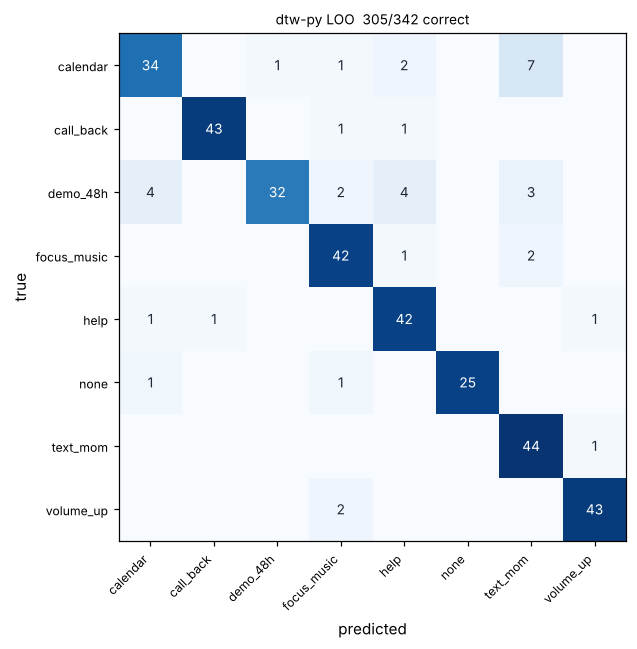
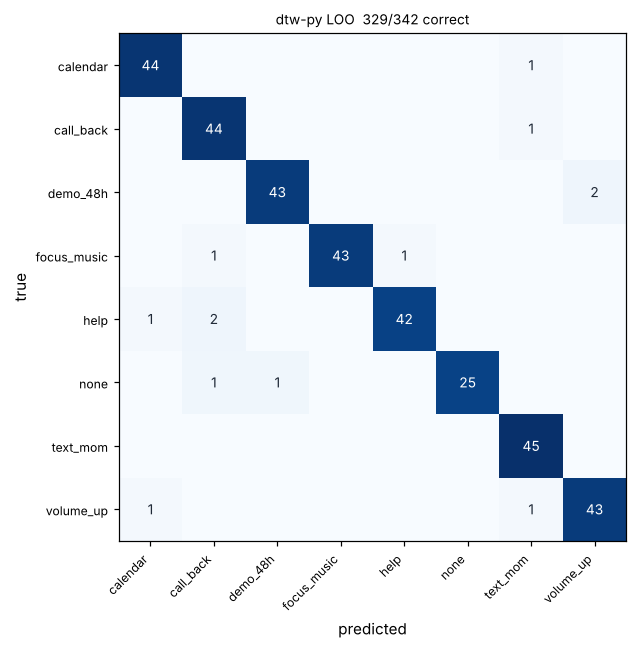
Track G: dtw-py LOO at the JS defaults, synthetic dtw-py rerun, RESULTS.md (real data first; generated with p2-f-dtw-real d27c07f's ml/results/dtw-knn in place)
Claude-Session: https://claude.ai/code/session_01BNSL6qk1bv6gor7EbPhNKm

diff --git a/01-silent-speech/ml/silent/report.py b/01-silent-speech/ml/silent/report.py
@@ -381,7 +381,7 @@ def _luck_table(rows: Sequence[dict[str, Any]], out_path: Path) -> list[str]:
         )
         img = m["_path"].parent / "luck_loso.png"
         if img.exists():
-            imgs += [f"![{m['model']} luck test]({os.path.relpath(img, out_path.parent).replace(os.sep, '/')})", ""]
+            imgs += [f"![{_model(m)} luck test]({os.path.relpath(img, out_path.parent).replace(os.sep, '/')})", ""]
     return lines + [""] + imgs
 
 
@@ -427,7 +427,7 @@ def _real_section(group: Sequence[dict[str, Any]], out_path: Path, ids: Sequence
     lucky = [m for m in by["loso"] if "permutation" in m["params"]]
     if lucky:
         lines += ["#### Luck test", "", *_luck_table(lucky, out_path)]
-        skipped = [m["model"] for m in by["loso"] if "permutation" not in m["params"] and m["model"] != "dtw-knn"]  # dtw-knn = dtw-py
+        skipped = [_model(m) for m in by["loso"] if "permutation" not in m["params"] and m["model"] != "dtw-knn"]  # dtw-knn = dtw-py
         if skipped:
             lines += [f"Not run for {', '.join(skipped)} (each shuffle means retraining every fold; the cheap exact shortcut exists only for",
                       "dtw-py and minirocket).", ""]

diff --git a/01-silent-speech/ml/tests/test_dtw.py b/01-silent-speech/ml/tests/test_dtw.py
@@ -146,11 +146,9 @@ def test_matches_js_dtw_knn_clip_by_clip(synthetic):
     import json
     from pathlib import Path
 
-    from silent.bench import run_fold
+    from silent.bench import default_opts, run_fold
     from silent.cv import splits
     from silent.preprocess import preprocess_clip
-
-    from silent.bench import default_opts
 
     snap = json.loads((Path(__file__).parent / "data" / "js_dtw_knn_loso.json").read_text())
     assert snap["opts"] == {}  # JS defaults = dtw-py defaults
@@ -174,11 +172,9 @@ def test_matches_js_dtw_knn_on_real_data_with_bud_mirroring(real_smoke):
     import json
     from pathlib import Path
 
-    from silent.bench import run_fold
+    from silent.bench import default_opts, run_fold
     from silent.cv import splits
     from silent.preprocess import preprocess_clip
-
-    from silent.bench import default_opts
 
     js = json.loads((Path(__file__).parent / "data" / "js_dtw_knn_real_smoke_loso.json").read_text())
     assert js["opts"] == {}  # JS defaults = dtw-py defaults (L 96, band 0.05, k 3, clip norm, threshold 0.85, budNorm mirror)

diff --git a/01-silent-speech/ml/RESULTS.md b/01-silent-speech/ml/RESULTS.md
@@ -31,22 +31,31 @@ he mouthed "stay still"); the raw files are never edited.
 
 8 classes (`calendar`, `call_back`, `demo_48h`, `focus_music`, `help`, `none`, `text_mom`, `volume_up`), so chance is about 12.5%.
 
-Settings (LOSO runs): **dtw-py**: L 64, 6 channels, high pass 1.0 Hz, global norm, budNorm mirror; band 0.1, k 1; **minirocket**: L 64, 6 channels, high pass 1.0 Hz, global norm, budNorm mirror; 10000 kernels, seed 0; **cnn**: L 64, 6 channels, high pass 1.0 Hz, global norm, budNorm mirror; max 300 epochs, seed 0.
+Settings (LOSO runs): **dtw-knn (JS)**: L 96, 6 channels, high pass 1 Hz, clip norm, budNorm mirror; band 0.05, k 3; **dtw-py**: L 96, 6 channels, high pass 1.0 Hz, clip norm, budNorm mirror; band 0.05, k 3; **dtw-py (phase1-settings)**: L 64, 6 channels, high pass 1.0 Hz, global norm, budNorm mirror; band 0.1, k 1; **minirocket**: L 64, 6 channels, high pass 1.0 Hz, global norm, budNorm mirror; 10000 kernels, seed 0; **minirocket (L96-clip)**: L 96, 6 channels, high pass 1.0 Hz, clip norm, budNorm mirror; 10000 kernels, seed 0; **cnn**: L 64, 6 channels, high pass 1.0 Hz, global norm, budNorm mirror; max 300 epochs, seed 0; **cnn (L96-clip)**: L 96, 6 channels, high pass 1.0 Hz, clip norm, budNorm mirror; max 300 epochs, seed 0.
 
 #### Leave one session out (the headline)
 
 Train on the other sessions, test on a whole new one: the closest thing to real use. Each test column is one fold.
 
-| Model | Accuracy | Macro F1 | test s1 (right bud) | test s2 (left bud) | test s3 (left bud) | Seeds 0 to 4: mean (range) | None false accept | Infer ms/clip |
-|---|---:|---:|---:|---:|---:|---:|---:|---:|
-| dtw-py | 81.9% (280/342) | 0.820 | 64.8% (68/105) | 94.0% (110/117) | 85.0% (102/120) | no randomness | 3.7% (1/27) | 51.4 |
-| minirocket | 76.3% (261/342) | 0.776 | 49.5% (52/105) | 92.3% (108/117) | 84.2% (101/120) | 77.8% (76.3% to 79.8%) | 0.0% (0/27) | 3.9 |
-| cnn | 76.6% (262/342) | 0.780 | 51.4% (54/105) | 91.5% (107/117) | 84.2% (101/120) | 77.3% (74.9% to 81.3%) | 3.7% (1/27) | 2.1 |
+| Model | Accuracy | Macro F1 | test s1 (right bud) | test s2 (left bud) | test s3 (left bud) | Seeds 0 to 4: mean (range) | Settings | None false accept | Infer ms/clip |
+|---|---:|---:|---:|---:|---:|---:|---|---:|---:|
+| dtw-knn (JS) | 94.2% (322/342) | 0.939 | ? | ? | ? | no randomness | picked on these folds (sweep) | 0.0% (0/27) | 12.9 |
+| dtw-py | 94.2% (322/342) | 0.939 | 83.8% (88/105) | 97.4% (114/117) | 100.0% (120/120) | no randomness | picked on these folds (sweep) | 0.0% (0/27) | 93.9 |
+| dtw-py (phase1-settings) | 81.9% (280/342) | 0.820 | 64.8% (68/105) | 94.0% (110/117) | 85.0% (102/120) | no randomness | fixed before this data | 3.7% (1/27) | 52.3 |
+| minirocket | 76.3% (261/342) | 0.776 | 49.5% (52/105) | 92.3% (108/117) | 84.2% (101/120) | 77.8% (76.3% to 79.8%) | fixed before this data | 0.0% (0/27) | 3.9 |
+| minirocket (L96-clip) | 84.8% (290/342) | 0.854 | 64.8% (68/105) | 95.7% (112/117) | 91.7% (110/120) | 85.4% (83.9% to 88.3%) | preprocessing from the DTW sweep | 3.7% (1/27) | 6.0 |
+| cnn | 76.6% (262/342) | 0.780 | 51.4% (54/105) | 91.5% (107/117) | 84.2% (101/120) | 77.3% (74.9% to 81.3%) | fixed before this data | 3.7% (1/27) | 2.1 |
+| cnn (L96-clip) | 79.2% (271/342) | 0.798 | 54.3% (57/105) | 92.3% (108/117) | 88.3% (106/120) | 80.8% (78.9% to 83.6%) | preprocessing from the DTW sweep | 3.7% (1/27) | 2.4 |
+
+**Settings picked on these folds:** the DTW defaults (L 96, band 0.05, k 3, clip norm, threshold 0.85) were chosen
+by a LOSO sweep of 768 configurations on these same 3 sessions (Track F, `web/src/ml/preprocess.ts`), so those
+rows are a little optimistic (the best of many tries). Rows marked *fixed before this data* had no such tuning.
+The honest check is a session that played no part in choosing anything (the s3 hold out replay of the public model).
 
 Accuracy is the first seed (0), fixed before the run. MiniRocket and the CNN are random (kernels, weights), so the
 seed column shows the same LOSO with other seeds: differences of a few points between models are within that spread.
 
-- Highest LOSO on `ss-dataset-s1-20261031-1621.json`, `ss-dataset-s2-20261031-1637.json`, `ss-dataset-s3-20261031-1654.json`: **dtw-py**, 280/342 correct (81.9%).
+- Highest LOSO on `ss-dataset-s1-20261031-1621.json`, `ss-dataset-s2-20261031-1637.json`, `ss-dataset-s3-20261031-1654.json`: **dtw-knn (JS)** and **dtw-py** (tie), 322/342 correct (94.2%).
 
 #### Cross bud
 
@@ -56,9 +65,12 @@ motion mirrored into the left bud frame; the default everywhere, so this is also
 
 | Model | Raw | Mirrored | Gain (points) |
 |---|---:|---:|---:|
-| dtw-py | 31.4% (33/105) | 64.8% (68/105) | +33.3 |
+| dtw-py | 26.7% (28/105) | 83.8% (88/105) | +57.1 |
+| dtw-py (phase1-settings) | 31.4% (33/105) | 64.8% (68/105) | +33.3 |
 | minirocket | 33.3% (35/105) | 49.5% (52/105) | +16.2 |
+| minirocket (L96-clip) | 30.5% (32/105) | 64.8% (68/105) | +34.3 |
 | cnn | 21.0% (22/105) | 51.4% (54/105) | +30.5 |
+| cnn (L96-clip) | 9.5% (10/105) | 54.3% (57/105) | +44.8 |
 
 #### Luck test
 
@@ -68,14 +80,17 @@ p value = (1 + shuffles that reached the real accuracy) / (shuffles + 1). Idea f
 
 | Model | Real LOSO | Shuffled labels: mean (sd) | Best shuffle | Shuffles at or above real | p value |
 |---|---:|---:|---:|---:|---:|
-| dtw-py | 81.9% (280/342) | 12.7% (3.2) | 22.8% | 0 of 500 | 0.002 |
+| dtw-py | 94.2% (322/342) | 12.5% (2.9) | 22.8% | 0 of 500 | 0.002 |
+| dtw-py (phase1-settings) | 81.9% (280/342) | 12.7% (3.2) | 22.8% | 0 of 500 | 0.002 |
 | minirocket | 76.3% (261/342) | 12.7% (2.3) | 19.9% | 0 of 500 | 0.002 |
 
 ![dtw-py luck test](results/dtw-py/luck_loso.png)
 
+![dtw-py (phase1-settings) luck test](results/dtw-py--phase1-settings/luck_loso.png)
+
 ![minirocket luck test](results/minirocket/luck_loso.png)
 
-Not run for cnn (each shuffle means retraining every fold; the cheap exact shortcut exists only for
+Not run for minirocket (L96-clip), cnn, cnn (L96-clip) (each shuffle means retraining every fold; the cheap exact shortcut exists only for
 dtw-py and minirocket).
 
 #### Leave one clip out
@@ -84,16 +99,52 @@ Train on every other clip, including takes from the same sitting, so it is optim
 
 | Model | Accuracy | Macro F1 | None false accept | Infer ms/clip |
 |---|---:|---:|---:|---:|
-| dtw-py | 89.2% (305/342) | 0.894 | 0.0% (0/27) | ~203.2 |
+| dtw-knn (JS) | 96.2% (329/342) | 0.962 | 0.0% (0/27) | 15.6 |
+| dtw-py | 96.2% (329/342) | 0.962 | 0.0% (0/27) | ~300.4 |
 | minirocket | 89.8% (307/342) | 0.901 | 0.0% (0/27) | ~6.8 |
+| cnn | 90.4% (309/342) | 0.907 | 3.7% (1/27) | ~3.7 |
 
 #### JS vs Python DTW cross check
 
-Needs both `dtw-knn` (JS, `scripts/eval-dtw.ts`) and `dtw-py` results on the same data and protocol.
+Same data and the same settings (L, band, k, norm, channels, hpHz, threshold, and budNorm when there are right bud
+clips) are checked first.
+
+| Protocol | Data | Accuracy JS | Accuracy Python | Gap (points) | None FA JS | None FA Python | Within 5? |
+|---|---|---:|---:|---:|---:|---:|---|
+| LOSO | `ss-dataset-s1-20261031-1621.json`, `ss-dataset-s2-20261031-1637.json`, `ss-dataset-s3-20261031-1654.json` | 94.2% (322/342) | 94.2% (322/342) | 0.0 | 0.0% | 0.0% | yes, same confusion matrix |
+| LOO | `ss-dataset-s1-20261031-1621.json`, `ss-dataset-s2-20261031-1637.json`, `ss-dataset-s3-20261031-1654.json` | 96.2% (329/342) | 96.2% (329/342) | 0.0 | 0.0% | 0.0% | yes, same confusion matrix |
 
 #### Confusion matrices
 
 Rows = true label, columns = predicted.
+
+##### dtw-knn (JS)
+
+**LOSO**
+
+| true \ pred | calendar | call_back | demo_48h | focus_music | help | none | text_mom | volume_up |
+|---|---|---|---|---|---|---|---|---|
+| **calendar** | 40 | 1 | . | . | 1 | . | 3 | . |
+| **call_back** | . | 44 | . | . | . | 1 | . | . |
+| **demo_48h** | . | . | 43 | . | . | 1 | . | 1 |
+| **focus_music** | 1 | 2 | . | 40 | 1 | 1 | . | . |
+| **help** | . | 1 | . | 1 | 43 | . | . | . |
+| **none** | 1 | 1 | . | . | . | 25 | . | . |
+| **text_mom** | . | . | . | . | . | 1 | 44 | . |
+| **volume_up** | . | . | . | . | . | 1 | 1 | 43 |
+
+**LOO**
+
+| true \ pred | calendar | call_back | demo_48h | focus_music | help | none | text_mom | volume_up |
+|---|---|---|---|---|---|---|---|---|
+| **calendar** | 44 | . | . | . | . | . | 1 | . |
+| **call_back** | . | 44 | . | . | . | . | 1 | . |
+| **demo_48h** | . | . | 43 | . | . | . | . | 2 |
+| **focus_music** | . | 1 | . | 43 | 1 | . | . | . |
+| **help** | 1 | 2 | . | . | 42 | . | . | . |
+| **none** | . | 1 | 1 | . | . | 25 | . | . |
+| **text_mom** | . | . | . | . | . | . | 45 | . |
+| **volume_up** | 1 | . | . | . | . | . | 1 | 43 |
 
 ##### dtw-py
 
@@ -103,6 +154,12 @@ Rows = true label, columns = predicted.
 
 ![dtw-py xbud](results/dtw-py/confusion_xbud.png)
 
+##### dtw-py (phase1-settings)
+
+![dtw-py (phase1-settings) loso](results/dtw-py--phase1-settings/confusion_loso.png)
+
+![dtw-py (phase1-settings) xbud](results/dtw-py--phase1-settings/confusion_xbud.png)
+
 ##### minirocket
 
 ![minirocket loso](results/minirocket/confusion_loso.png)
@@ -111,11 +168,25 @@ Rows = true label, columns = predicted.
 
 ![minirocket xbud](results/minirocket/confusion_xbud.png)
 
+##### minirocket (L96-clip)
+
+![minirocket (L96-clip) loso](results/minirocket--L96-clip/confusion_loso.png)
+
+![minirocket (L96-clip) xbud](results/minirocket--L96-clip/confusion_xbud.png)
+
 ##### cnn
 
 ![cnn loso](results/cnn/confusion_loso.png)
 
+![cnn loo](results/cnn/confusion_loo.png)
+
 ![cnn xbud](results/cnn/confusion_xbud.png)
+
+##### cnn (L96-clip)
+
+![cnn (L96-clip) loso](results/cnn--L96-clip/confusion_loso.png)
+
+![cnn (L96-clip) xbud](results/cnn--L96-clip/confusion_xbud.png)
 
 ## Synthetic fixture (not real AirPods data)
 
@@ -124,17 +195,17 @@ Rows = true label, columns = predicted.
 
 | Model | Protocol | Accuracy | Macro F1 | None false accept | Infer ms/clip | Data |
 |---|---|---:|---:|---:|---:|---|
-| dtw-knn | LOSO | 98.3% (118/120) | 0.984 | 0.0% | 1.1 | `dataset.synthetic.json` (*synthetic*) |
-| dtw-knn | LOO | 98.3% (118/120) | 0.984 | 0.0% | 1.6 | `dataset.synthetic.json` (*synthetic*) |
-| dtw-py | LOSO | 98.3% (118/120) | 0.984 | 0.0% | ~18.9 | `dataset.synthetic.json` (*synthetic*) |
-| dtw-py | LOO | 98.3% (118/120) | 0.984 | 0.0% | ~45.3 | `dataset.synthetic.json` (*synthetic*) |
+| dtw-knn | LOSO | 100.0% (120/120) | 1.000 | 0.0% | 2.9 | `dataset.synthetic.json` (*synthetic*) |
+| dtw-knn | LOO | 100.0% (120/120) | 1.000 | 0.0% | 3.6 | `dataset.synthetic.json` (*synthetic*) |
+| dtw-py | LOSO | 100.0% (120/120) | 1.000 | 0.0% | ~48.4 | `dataset.synthetic.json` (*synthetic*) |
+| dtw-py | LOO | 100.0% (120/120) | 1.000 | 0.0% | ~83.7 | `dataset.synthetic.json` (*synthetic*) |
 | minirocket | LOSO | 99.2% (119/120) | 0.992 | 0.0% | ~3.8 | `dataset.synthetic.json` (*synthetic*) |
 | minirocket | LOO | 98.3% (118/120) | 0.983 | 0.0% | ~7.0 | `dataset.synthetic.json` (*synthetic*) |
 | cnn | LOSO | 97.5% (117/120) | 0.975 | 0.0% | 2.1 | `dataset.synthetic.json` (*synthetic*) |
 | cnn | LOO | 98.3% (118/120) | 0.984 | 0.0% | 1.0 | `dataset.synthetic.json` (*synthetic*) |
 
-- Highest LOSO on `dataset.synthetic.json`: **minirocket**, 119/120 correct (99.2%).
-- Highest LOO on `dataset.synthetic.json`: **dtw-knn** and **dtw-py** and **minirocket** and **cnn** (tie), 118/120 correct (98.3%).
+- Highest LOSO on `dataset.synthetic.json`: **dtw-knn (JS)** and **dtw-py** (tie), 120/120 correct (100.0%).
+- Highest LOO on `dataset.synthetic.json`: **dtw-knn (JS)** and **dtw-py** (tie), 120/120 correct (100.0%).
 
 ### JS vs Python DTW cross check (synthetic)
 
@@ -143,14 +214,14 @@ clips) are checked first.
 
 | Protocol | Data | Accuracy JS | Accuracy Python | Gap (points) | None FA JS | None FA Python | Within 5? |
 |---|---|---:|---:|---:|---:|---:|---|
-| LOSO | `dataset.synthetic.json` | 98.3% (118/120) | 98.3% (118/120) | 0.0 | 0.0% | 0.0% | yes, same confusion matrix |
-| LOO | `dataset.synthetic.json` | 98.3% (118/120) | 98.3% (118/120) | 0.0 | 0.0% | 0.0% | yes, same confusion matrix |
+| LOSO | `dataset.synthetic.json` | 100.0% (120/120) | 100.0% (120/120) | 0.0 | 0.0% | 0.0% | yes, same confusion matrix |
+| LOO | `dataset.synthetic.json` | 100.0% (120/120) | 100.0% (120/120) | 0.0 | 0.0% | 0.0% | yes, same confusion matrix |
 
 ### Confusion matrices (synthetic)
 
 Rows = true label, columns = predicted.
 
-#### dtw-knn
+#### dtw-knn (JS)
 
 **LOSO**
 
@@ -160,10 +231,10 @@ Rows = true label, columns = predicted.
 | **call_back** | . | 15 | . | . | . | . | . | . |
 | **demo_48h** | . | . | 15 | . | . | . | . | . |
 | **focus_music** | . | . | . | 15 | . | . | . | . |
-| **help** | . | . | . | . | 14 | 1 | . | . |
+| **help** | . | . | . | . | 15 | . | . | . |
 | **none** | . | . | . | . | . | 15 | . | . |
 | **text_mom** | . | . | . | . | . | . | 15 | . |
-| **volume_up** | . | . | . | . | . | 1 | . | 14 |
+| **volume_up** | . | . | . | . | . | . | . | 15 |
 
 **LOO**
 
@@ -173,10 +244,10 @@ Rows = true label, columns = predicted.
 | **call_back** | . | 15 | . | . | . | . | . | . |
 | **demo_48h** | . | . | 15 | . | . | . | . | . |
 | **focus_music** | . | . | . | 15 | . | . | . | . |
-| **help** | . | . | . | . | 14 | 1 | . | . |
+| **help** | . | . | . | . | 15 | . | . | . |
 | **none** | . | . | . | . | . | 15 | . | . |
 | **text_mom** | . | . | . | . | . | . | 15 | . |
-| **volume_up** | . | . | . | . | . | 1 | . | 14 |
+| **volume_up** | . | . | . | . | . | . | . | 15 |
 
 #### dtw-py
 
